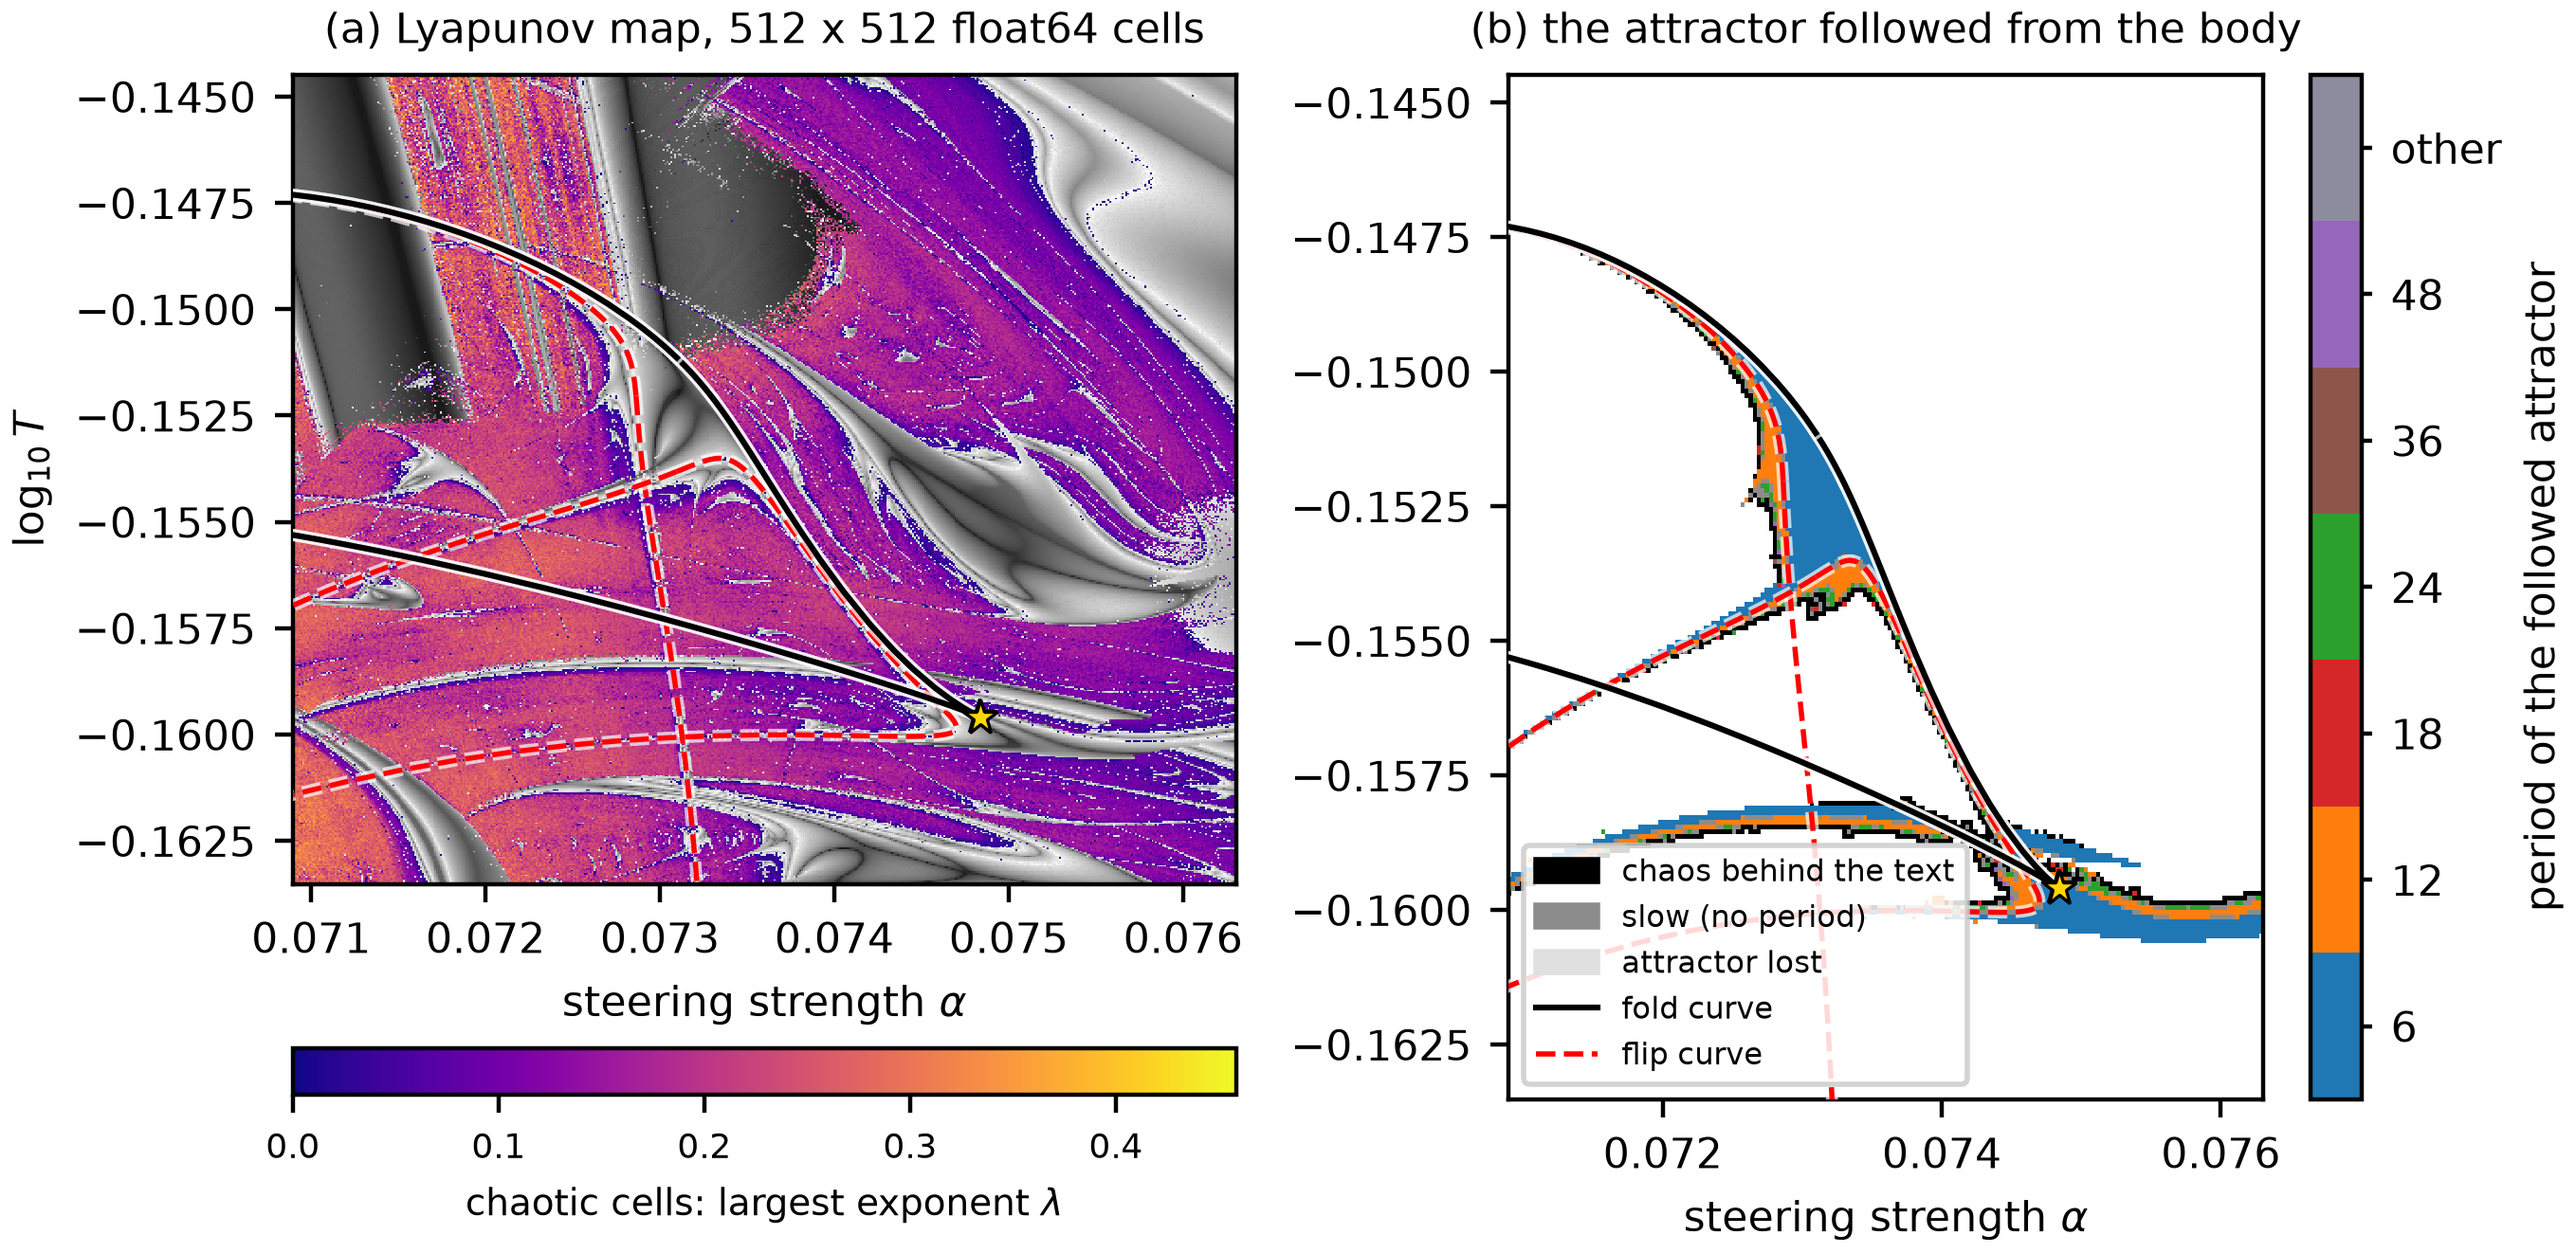
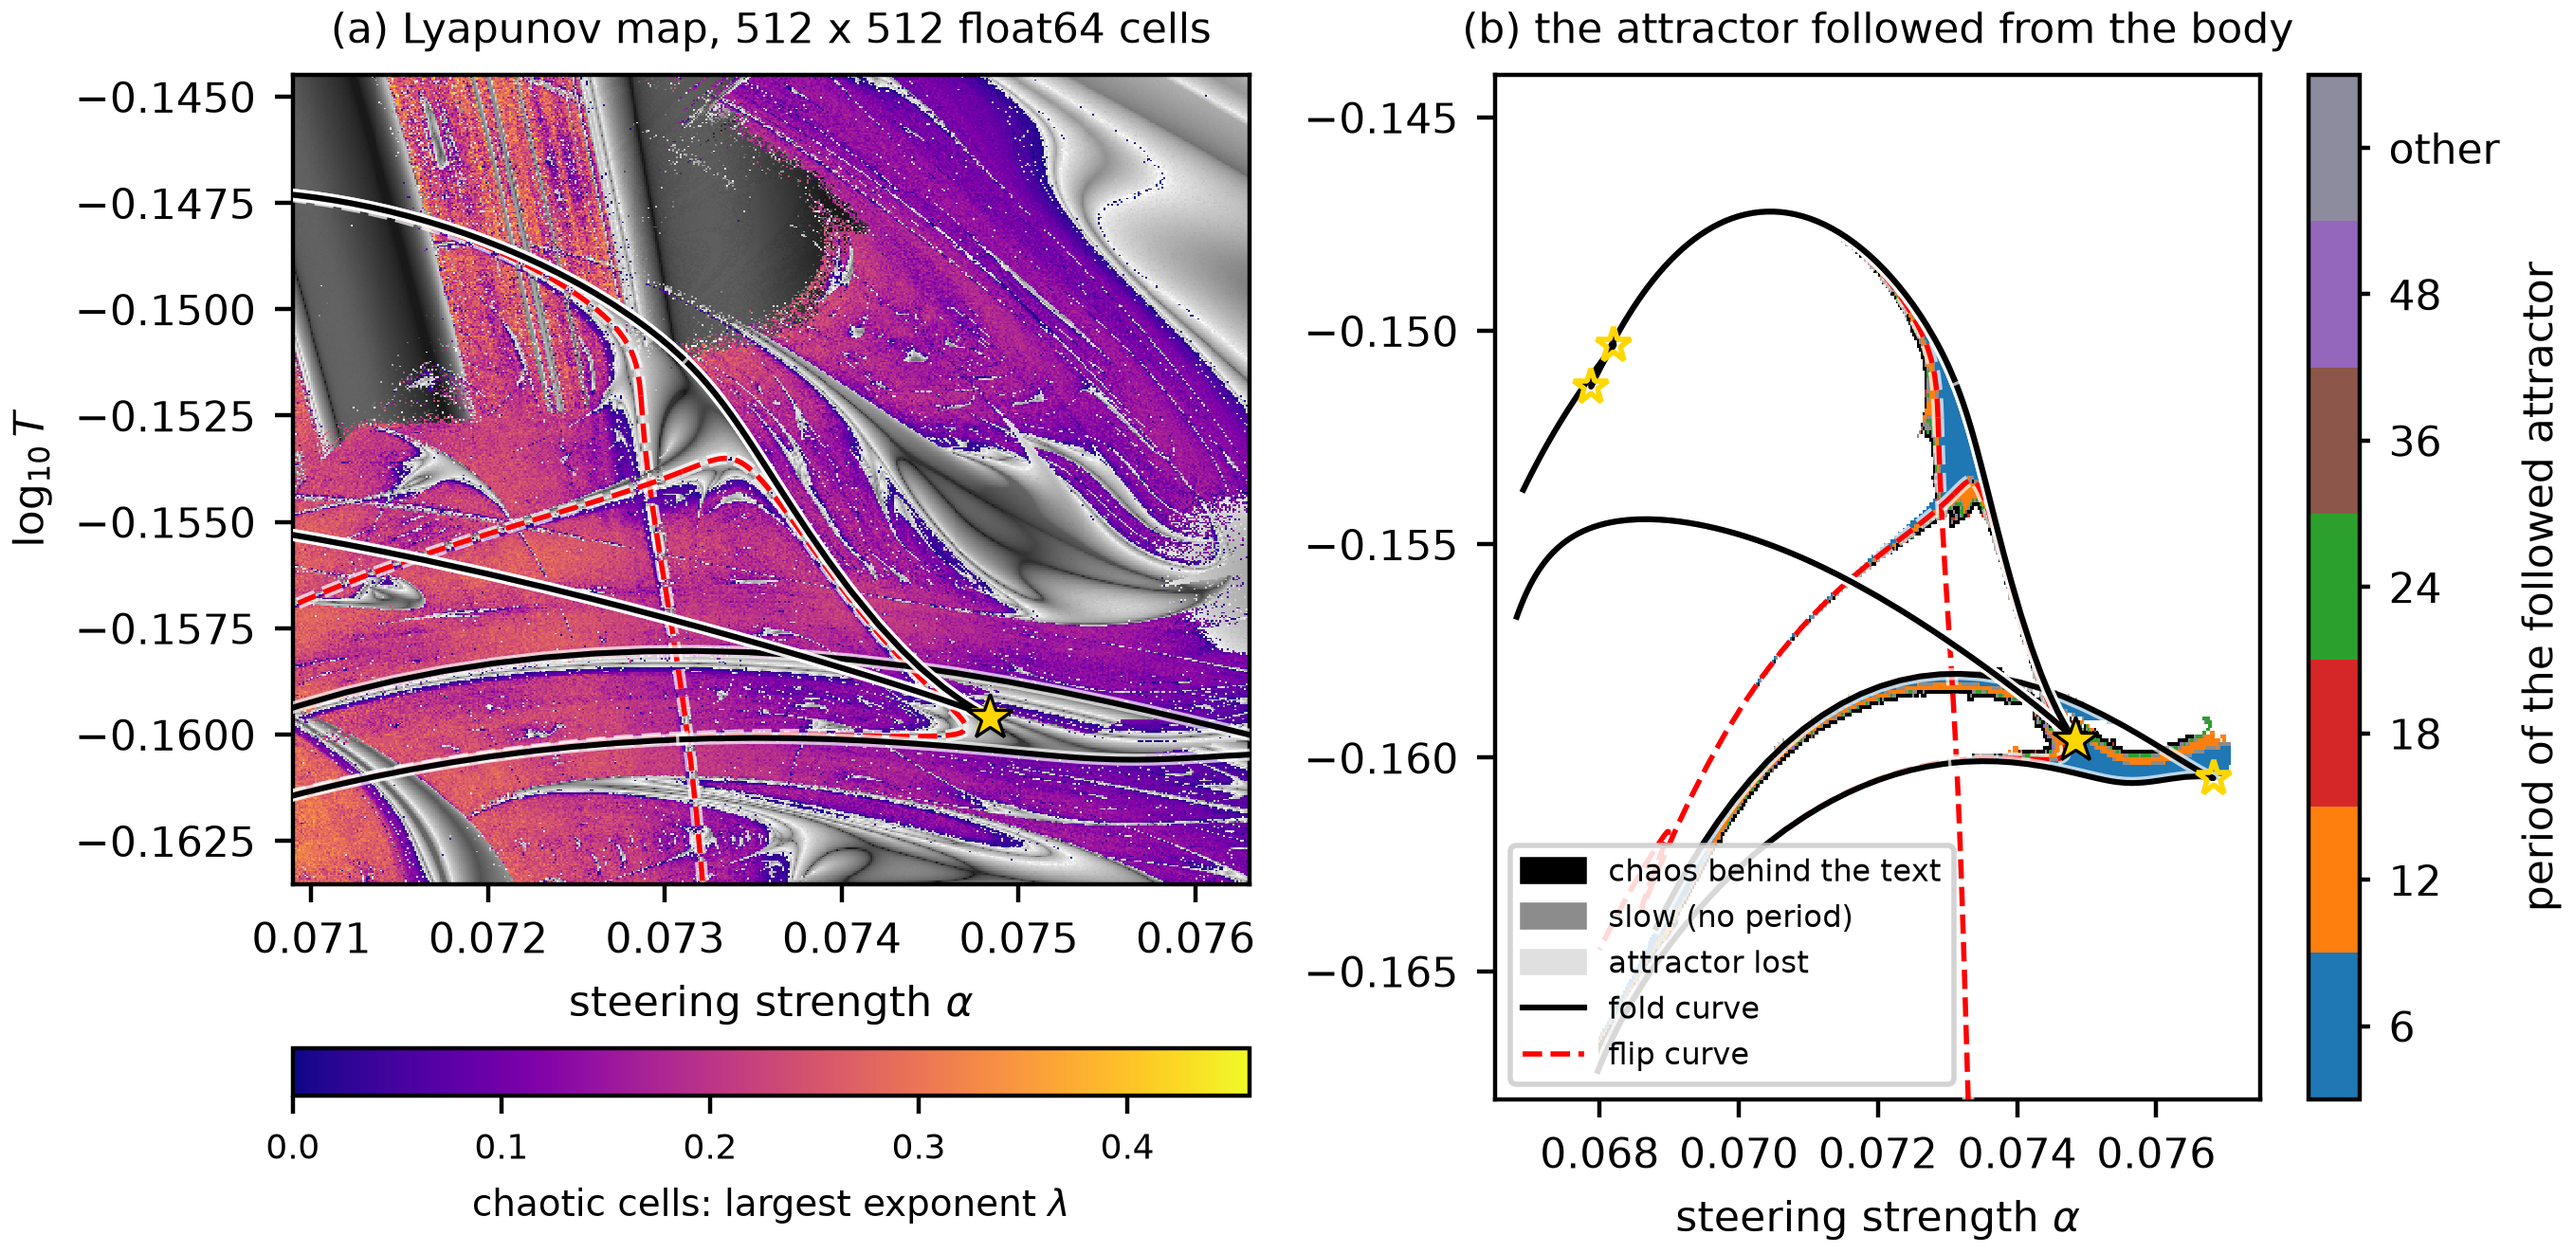
fig-p6-shrimp: all fold curves incl. rebuilt partial ones; hollow stars for fold-curve cusp candidates; wider follow panel

diff --git a/tools/plot_p6_shrimp.py b/tools/plot_p6_shrimp.py
@@ -29,7 +29,8 @@ DATA = ROOT.parent / "neural-shrimp-data"
 def load_curves(folder, max_residual, kind_tol):
     """Every curve-*/curve.json under folder, gated point by point."""
     out, report = [], []
-    for f in sorted((DATA / "explore" / folder).glob("*curve-*/curve.json")):
+    base = DATA / "explore" / folder
+    for f in sorted(set(base.glob("*curve-*/curve.json")) | set(base.glob("*-fold-*/curve.json"))):
         c = json.loads(f.read_text())
         kind = c.get("kind")
         target = 1.0 if kind == "fold" else -1.0
@@ -112,6 +113,9 @@ def draw_curves(ax, curves, lw=1.1, ms=7):
         x = [q["alpha"] for q in pts]
         y = [q["log10_temperature"] for q in pts]
         fold = rec["kind"] == "fold"
+        for q in pts:
+            if fold and q.get("cusp_candidate"):         # tangent reversals of fold curves only
+                ax.plot(q["alpha"], q["log10_temperature"], "*", mfc="none", mec="gold", mew=1.0, ms=ms, zorder=6)
         ax.plot(x, y, "-" if fold else "--", color="k" if fold else "r", lw=lw if fold else lw * 0.9, zorder=4,
                 path_effects=[pe.Stroke(linewidth=lw + 1.2, foreground="w", alpha=0.7), pe.Normal()])
 
@@ -122,6 +126,8 @@ def main():
     ap.add_argument("--curves", required=True, help="explore-relative folder holding the *curve-*/curve.json runs")
     ap.add_argument("--follow", default=None, help="explore-relative folder with follow.npz")
     ap.add_argument("--window", type=float, nargs=4, default=None, metavar=("A0", "A1", "T0", "T1"))
+    ap.add_argument("--follow-window", type=float, nargs=4, default=None, metavar=("A0", "A1", "T0", "T1"),
+                    help="axis limits of panel (b) (default: those of panel a)")
     ap.add_argument("--max-residual", type=float, default=1e-8)
     ap.add_argument("--kind-tol", type=float, default=1e-3)
     ap.add_argument("--chaos-level", type=float, default=1e-3)
@@ -201,7 +207,8 @@ def main():
                    Line2D([], [], color="r", lw=1.0, ls="--", label="flip curve")]
         draw_curves(axB, curves)
         draw_located(axB, located)
-        axB.set_xlim(ext[0], ext[1]); axB.set_ylim(ext[2], ext[3])
+        fw = args.follow_window or ext
+        axB.set_xlim(fw[0], fw[1]); axB.set_ylim(fw[2], fw[3])
         axB.set_xlabel(r"steering strength $\alpha$")
         axB.set_title("(b) the attractor followed from the body", fontsize=8)
         axB.legend(handles=handles, fontsize=5.8, loc="lower left", framealpha=0.85)
